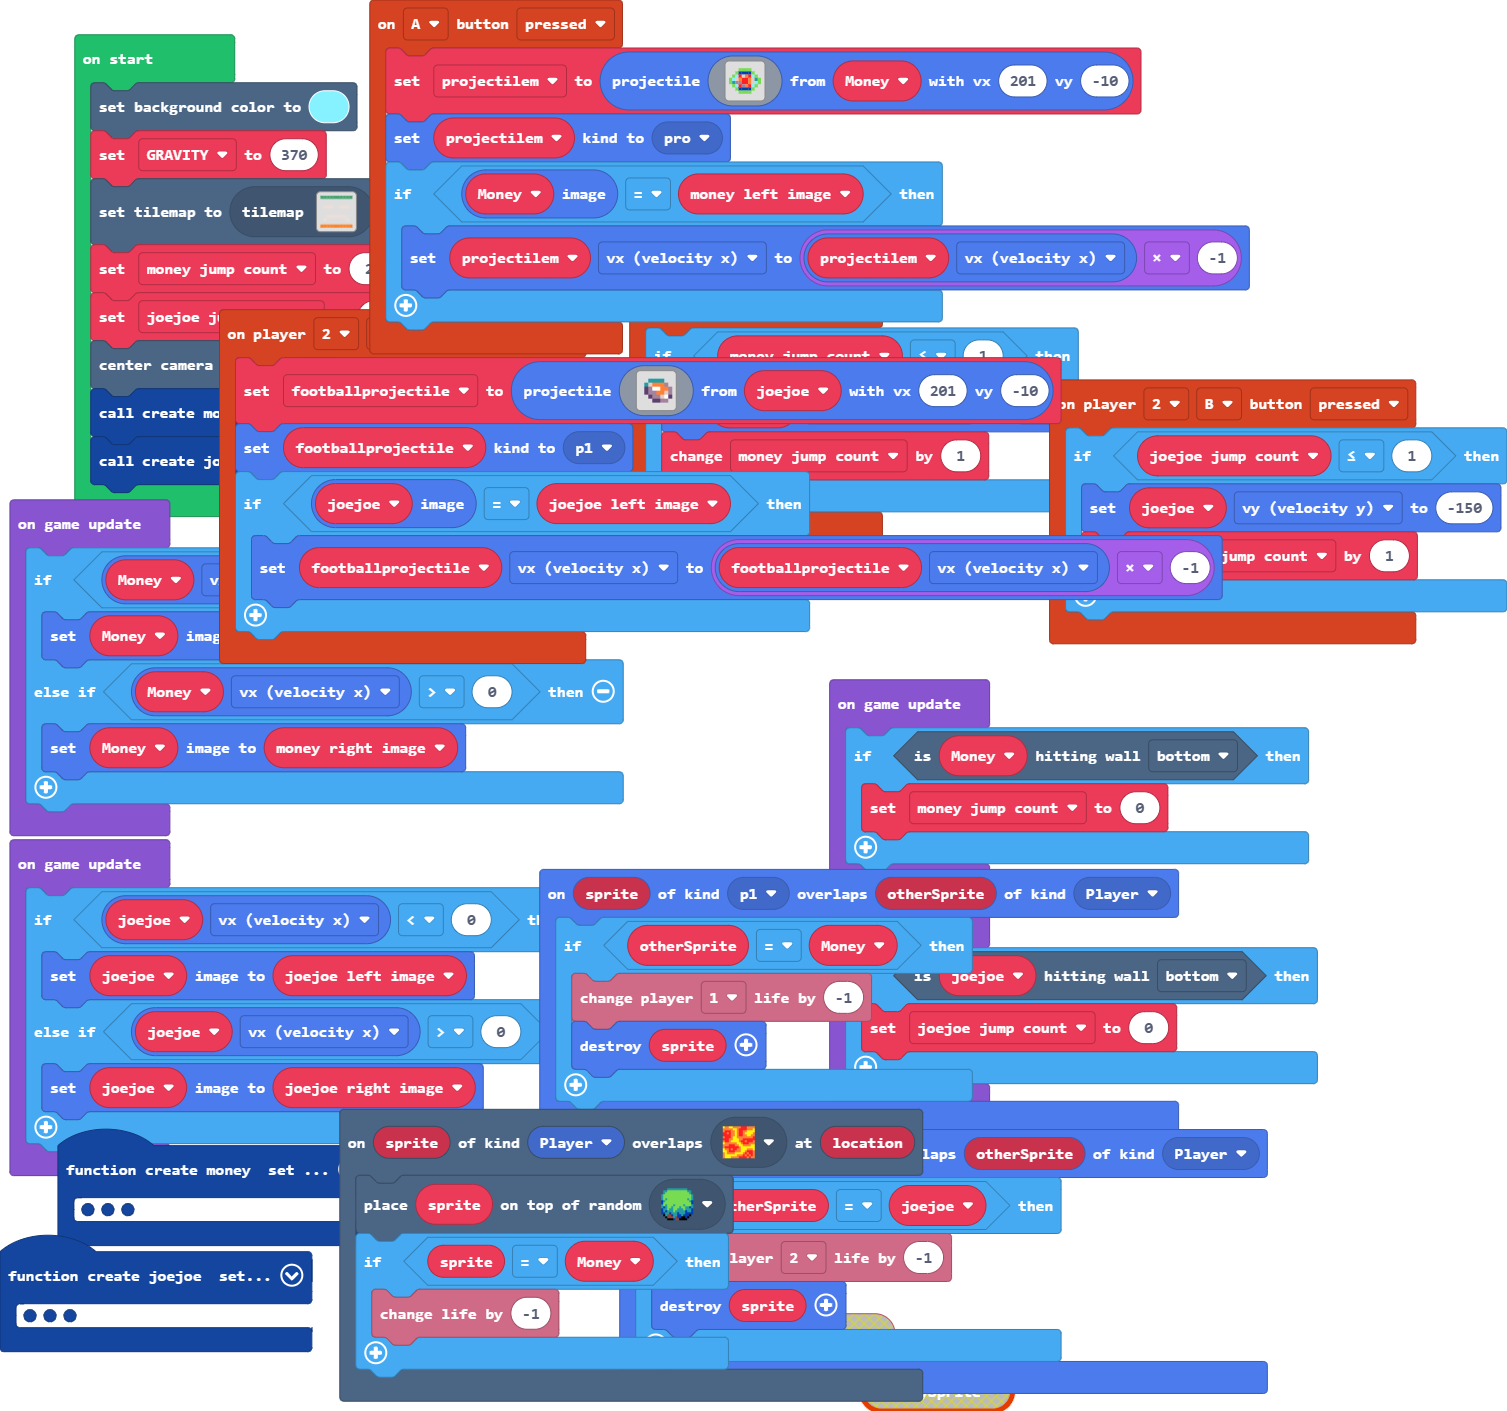
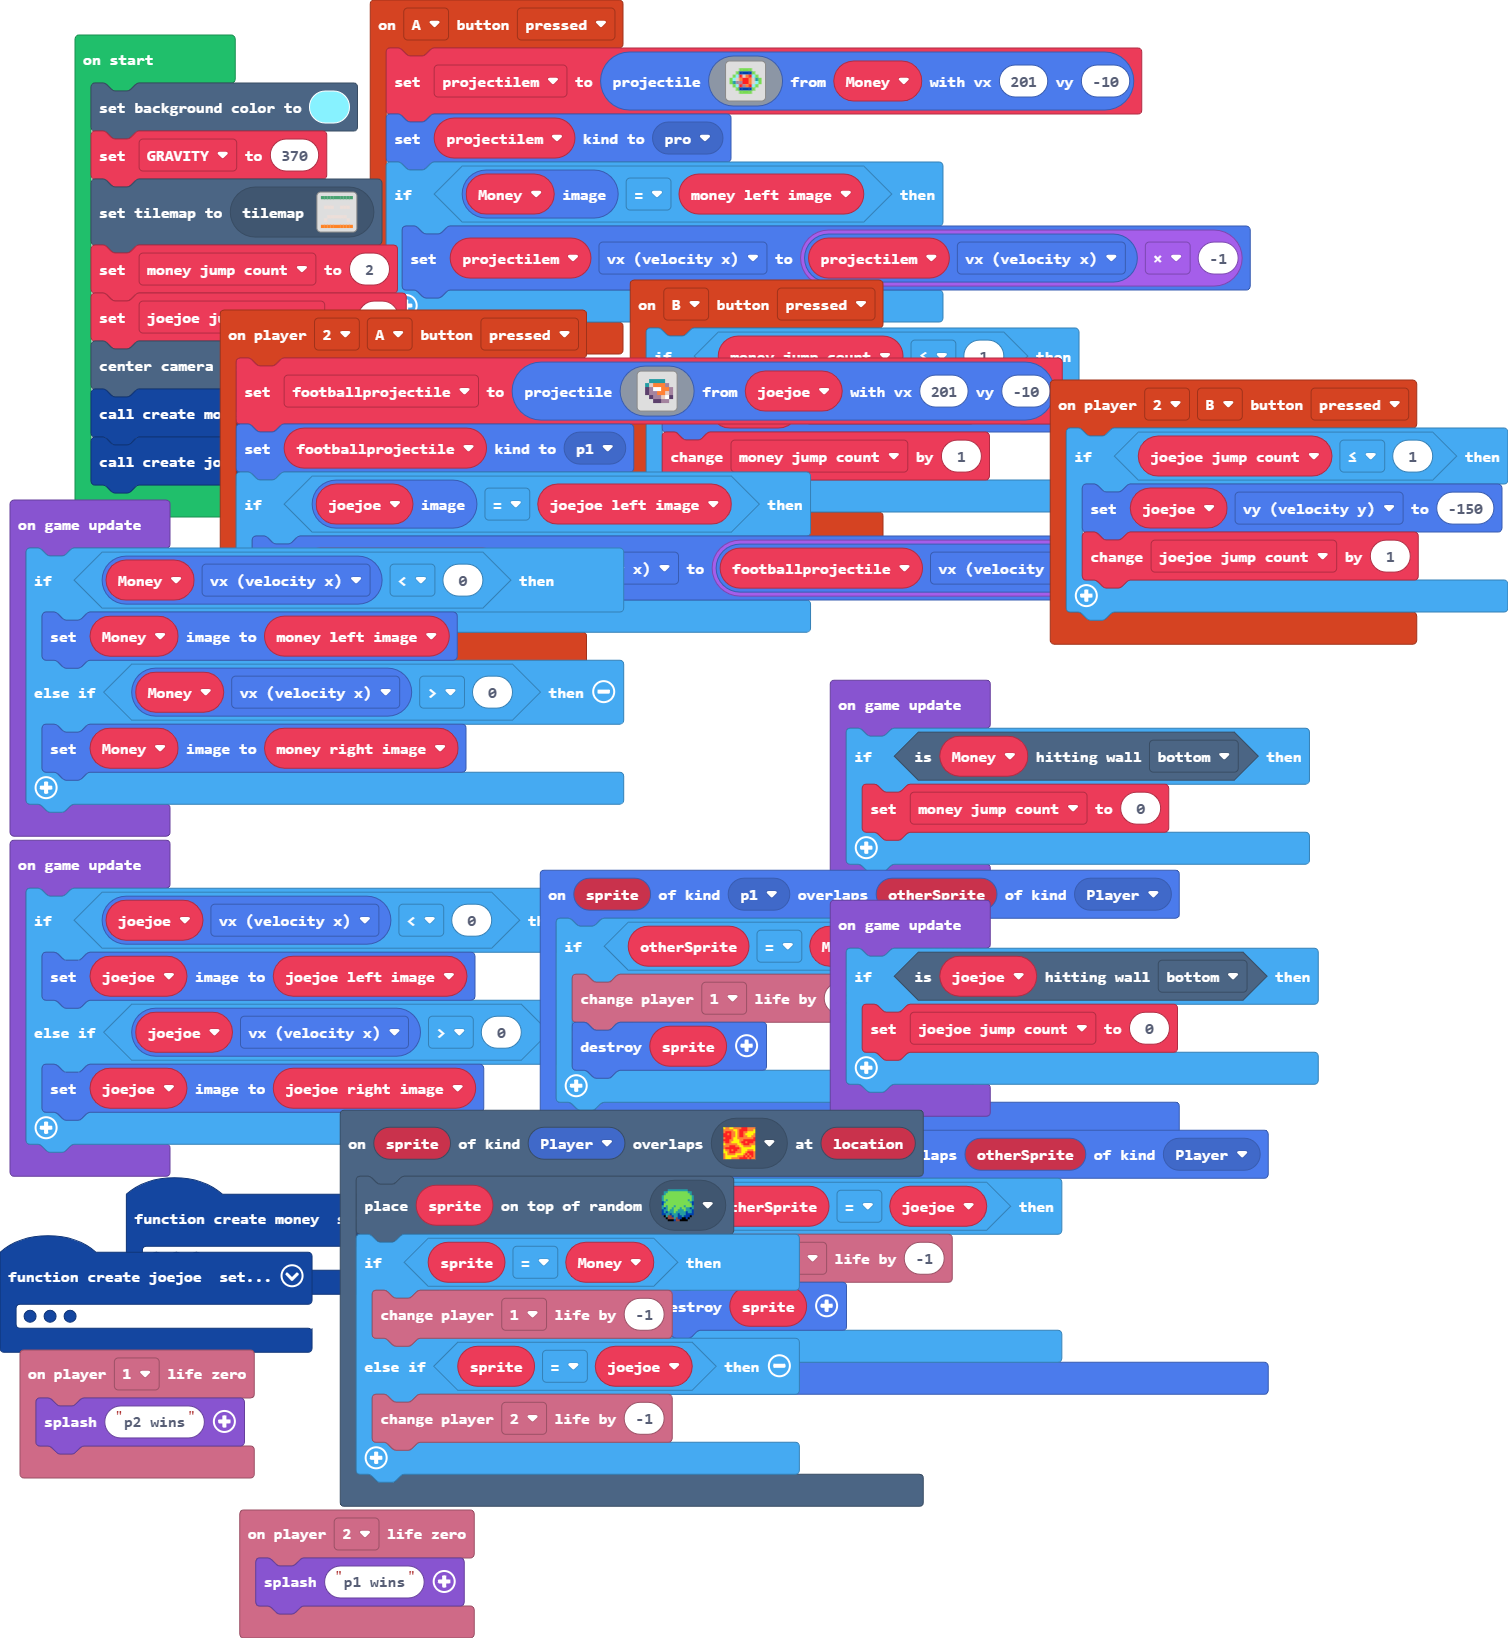
done

diff --git a/main.ts b/main.ts
@@ -5,7 +5,9 @@ namespace SpriteKind {
 scene.onOverlapTile(SpriteKind.Player, assets.tile`myTile0`, function (sprite, location) {
     tiles.placeOnRandomTile(sprite, sprites.builtin.forestTiles0)
     if (sprite == Money) {
-        info.changeLifeBy(-1)
+        info.player1.changeLifeBy(-1)
+    } else if (sprite == joejoe) {
+        info.player2.changeLifeBy(-1)
     }
 })
 controller.player2.onButtonEvent(ControllerButton.B, ControllerButtonEvent.Pressed, function () {
@@ -116,6 +118,12 @@ function create_money () {
     Money.ay = GRAVITY
     info.setLife(71)
 }
+info.player1.onLifeZero(function () {
+    game.splash("p2 wins")
+})
+info.player2.onLifeZero(function () {
+    game.splash("p1 wins")
+})
 let money_right_image: Image = null
 let joejoe_right_image: Image = null
 let joejoe_left_image: Image = null
